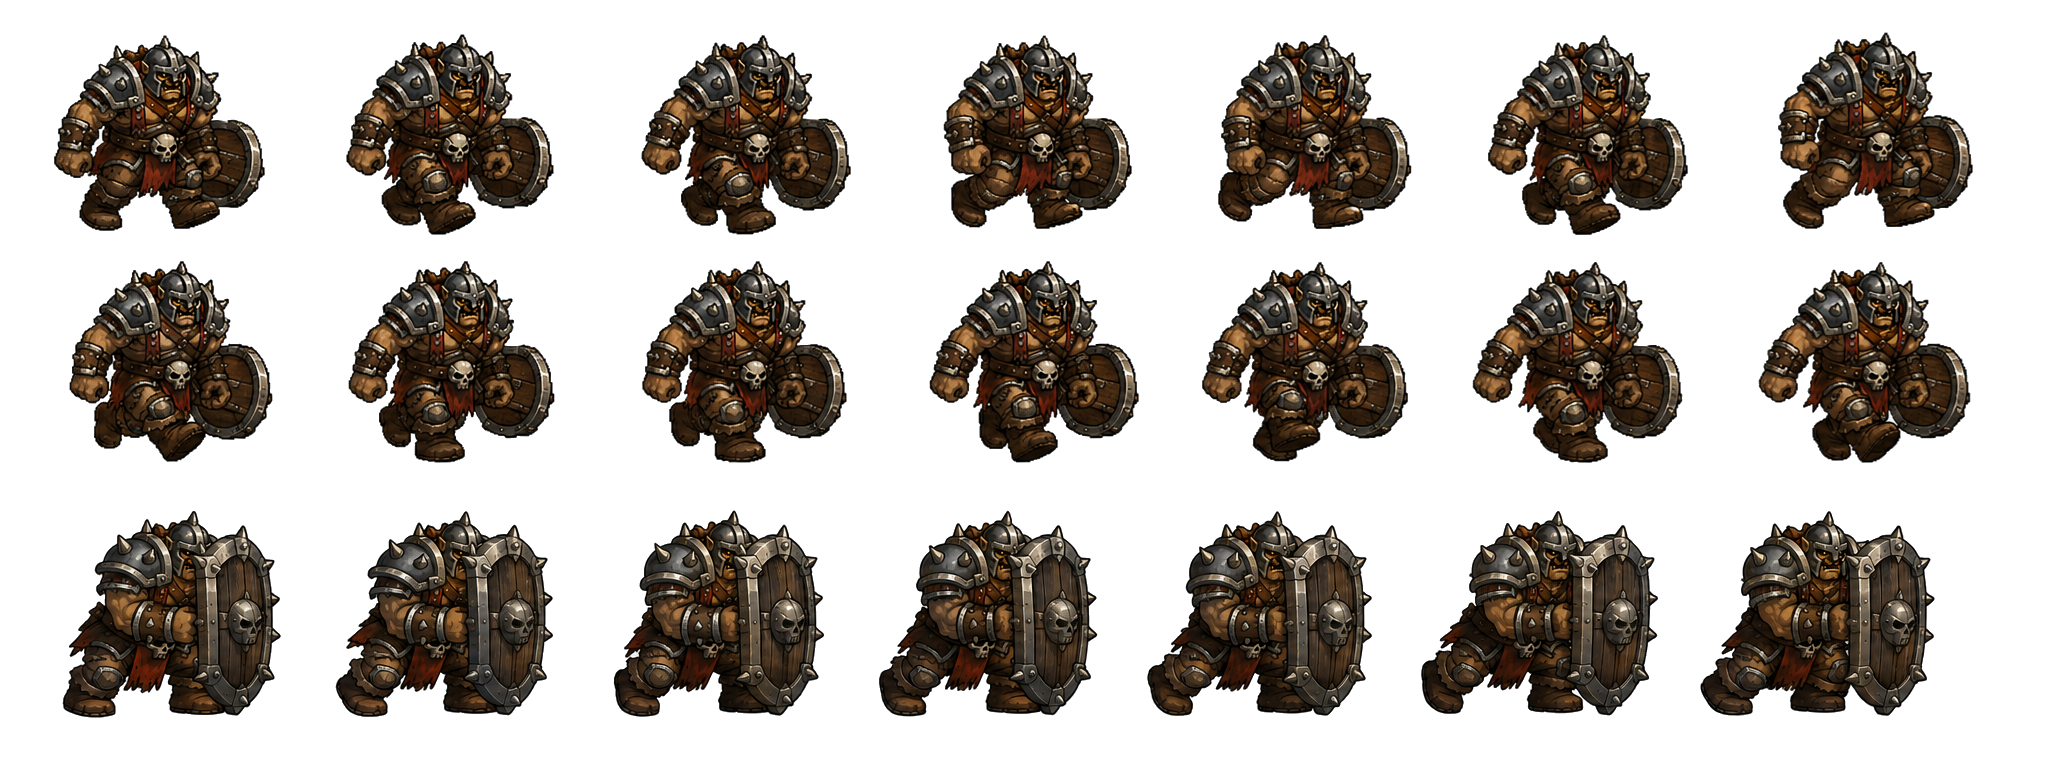
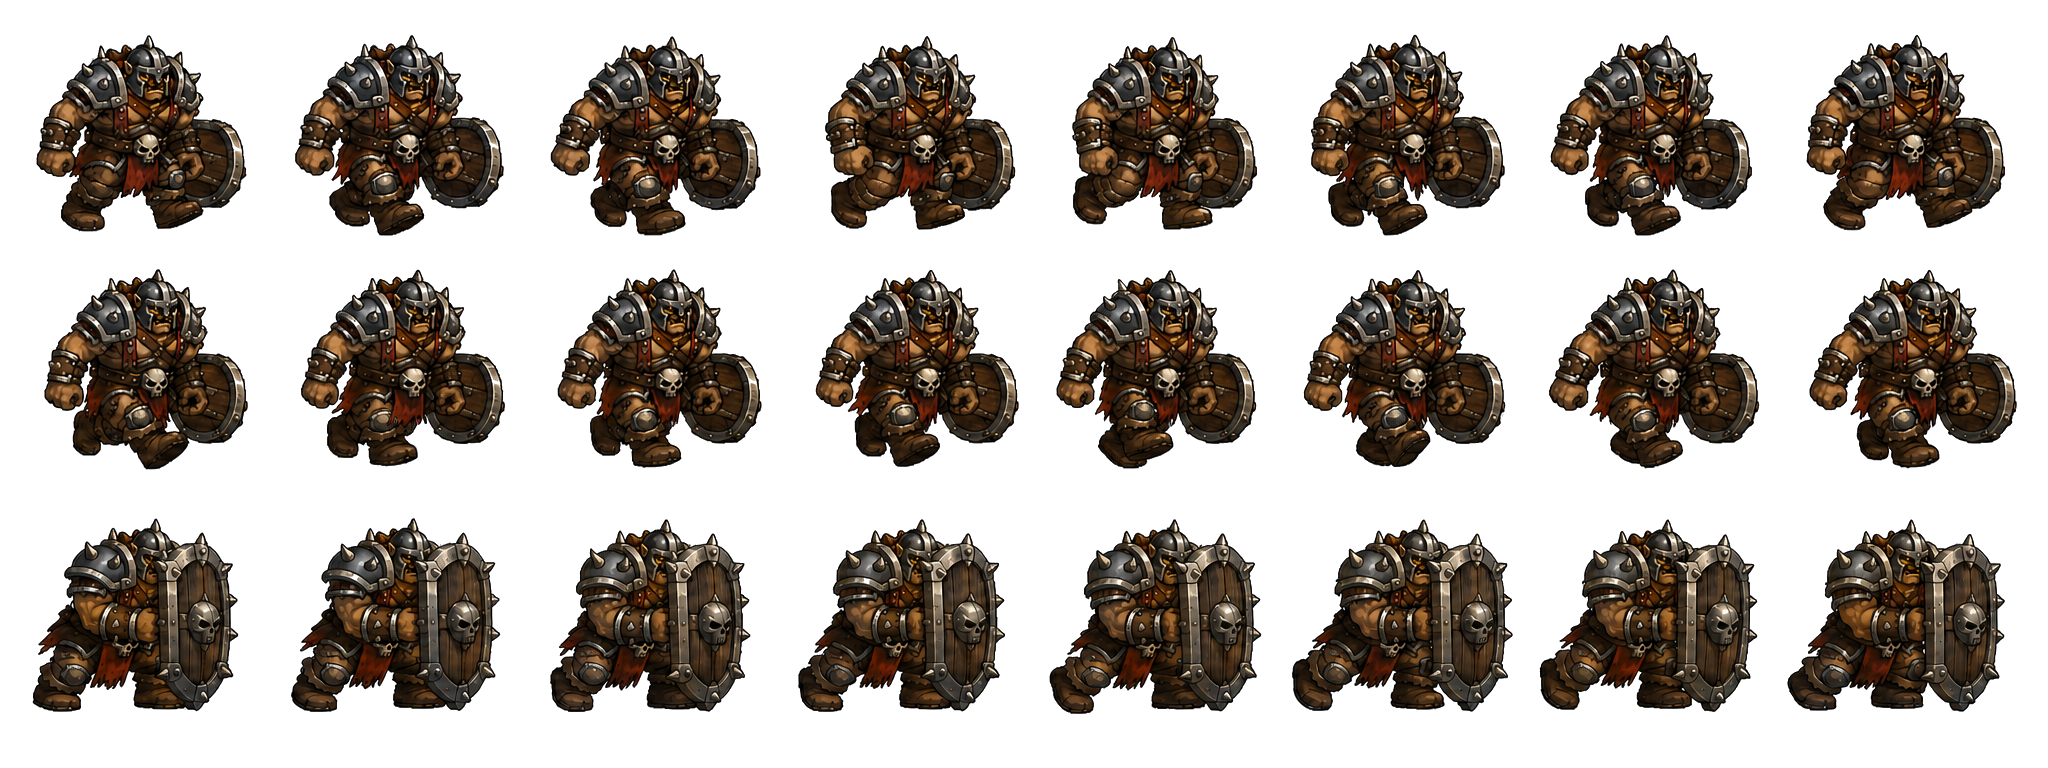
replace images 1.0

diff --git a/src/combat/Projectile.java b/src/combat/Projectile.java
@@ -1,10 +1,13 @@
 package combat;
 
 import java.awt.Color;
+import java.awt.Image;
 
 import core.GridPosition;
 import core.GridMap;
+import game.GameConfig;
 import game.GameEngine;
+import manager.ImageManger;
 
 /** Lightweight visual projectile. Damage is applied immediately by towers for now. */
 public class Projectile {
@@ -32,8 +35,30 @@ public class Projectile {
         double progress = Math.max(0.0, Math.min(1.0, 1.0 - life / 0.18));
         double x = lerp(map.tileCenterX(start), map.tileCenterX(target), progress);
         double y = lerp(map.tileCenterY(start), map.tileCenterY(target), progress);
+        Image image = getProjectileImage();
+        if (image != null) {
+            double size = color == Color.MAGENTA ? GameConfig.TILE_SIZE * 1.6 : GameConfig.TILE_SIZE;
+            engine.drawImage(image, x - size / 2, y - size / 2, size, size);
+            return;
+        }
         engine.changeColor(color);
         engine.drawSolidCircle(x, y, 4);
+    }
+
+    private Image getProjectileImage() {
+        if (color == Color.YELLOW) {
+            return ImageManger.getArrowProjectile();
+        }
+        if (color == Color.ORANGE) {
+            return ImageManger.getCannonProjectile();
+        }
+        if (color == Color.CYAN) {
+            return ImageManger.getIceProjectile();
+        }
+        if (color == Color.MAGENTA) {
+            return ImageManger.getLaserEffect();
+        }
+        return null;
     }
 
     private double lerp(double a, double b, double t) {

diff --git a/src/building/Base.java b/src/building/Base.java
@@ -1,11 +1,13 @@
 package building;
 
 import java.awt.Color;
+import java.awt.Image;
 
 import core.GridPosition;
 import core.GridMap;
 import game.GameEngine;
 import game.GameConfig;
+import manager.ImageManger;
 import manager.SoundManager;
 
 /** The central objective enemies try to destroy. */
@@ -45,6 +47,15 @@ public class Base {
     public void draw(GameEngine engine, GridMap map) {
         int x = map.toScreenX(position.col);
         int y = map.toScreenY(position.row);
+        Image image = ImageManger.getBaseImage();
+        if (image != null) {
+            int size = GameConfig.TILE_SIZE * 2;
+            int centerX = map.tileCenterX(position);
+            int centerY = map.tileCenterY(position);
+            engine.drawImage(image, centerX - size / 2, centerY - size / 2,
+                    size, size);
+            return;
+        }
         engine.changeColor(new Color(70, 125, 230));
         engine.drawSolidRectangle(x + 3, y + 3, GameConfig.TILE_SIZE - 6, GameConfig.TILE_SIZE - 6);
         engine.changeColor(Color.WHITE);

diff --git a/src/combat/MeteorStrike.java b/src/combat/MeteorStrike.java
@@ -9,7 +9,9 @@ import enemy.Enemy;
 import building.Building;
 import event.Disaster;
 import event.EventType;
+import game.GameConfig;
 import game.GameEngine;
+import manager.ImageManger;
 import manager.SoundManager;
 
 /** Warning marker followed by one burst of damage. */
@@ -49,6 +51,13 @@ public class MeteorStrike extends Disaster {
 
     @Override
     public void draw(GameEngine engine, GridMap map) {
+        if (struck && ImageManger.getExplosionFireball() != null) {
+            int size = (radius * 2 + 1) * GameConfig.TILE_SIZE;
+            int x = map.tileCenterX(position) - size / 2;
+            int y = map.tileCenterY(position) - size / 2;
+            engine.drawImage(ImageManger.getExplosionFireball(), x, y, size, size);
+            return;
+        }
         Color color = struck ? new Color(255, 130, 45) : new Color(255, 230, 90);
         drawArea(engine, map, color);
     }

diff --git a/src/building/tower/HealTower.java b/src/building/tower/HealTower.java
@@ -72,6 +72,12 @@ public class HealTower extends Building {
     public void draw(GameEngine engine, GridMap map) {
         int x = map.toScreenX(position.col);
         int y = map.toScreenY(position.row);
+        Image rangeImage = ImageManger.getHealRangeEffect();
+        if (rangeImage != null) {
+            int size = (range * 2 + 1) * GameConfig.TILE_SIZE;
+            engine.drawImage(rangeImage, map.tileCenterX(position) - size / 2,
+                    map.tileCenterY(position) - size / 2, size, size);
+        }
         Image image = ImageManger.getHealTower();
         if (image != null) {
             engine.drawImage(image, x, y, GameConfig.TILE_SIZE, GameConfig.TILE_SIZE);